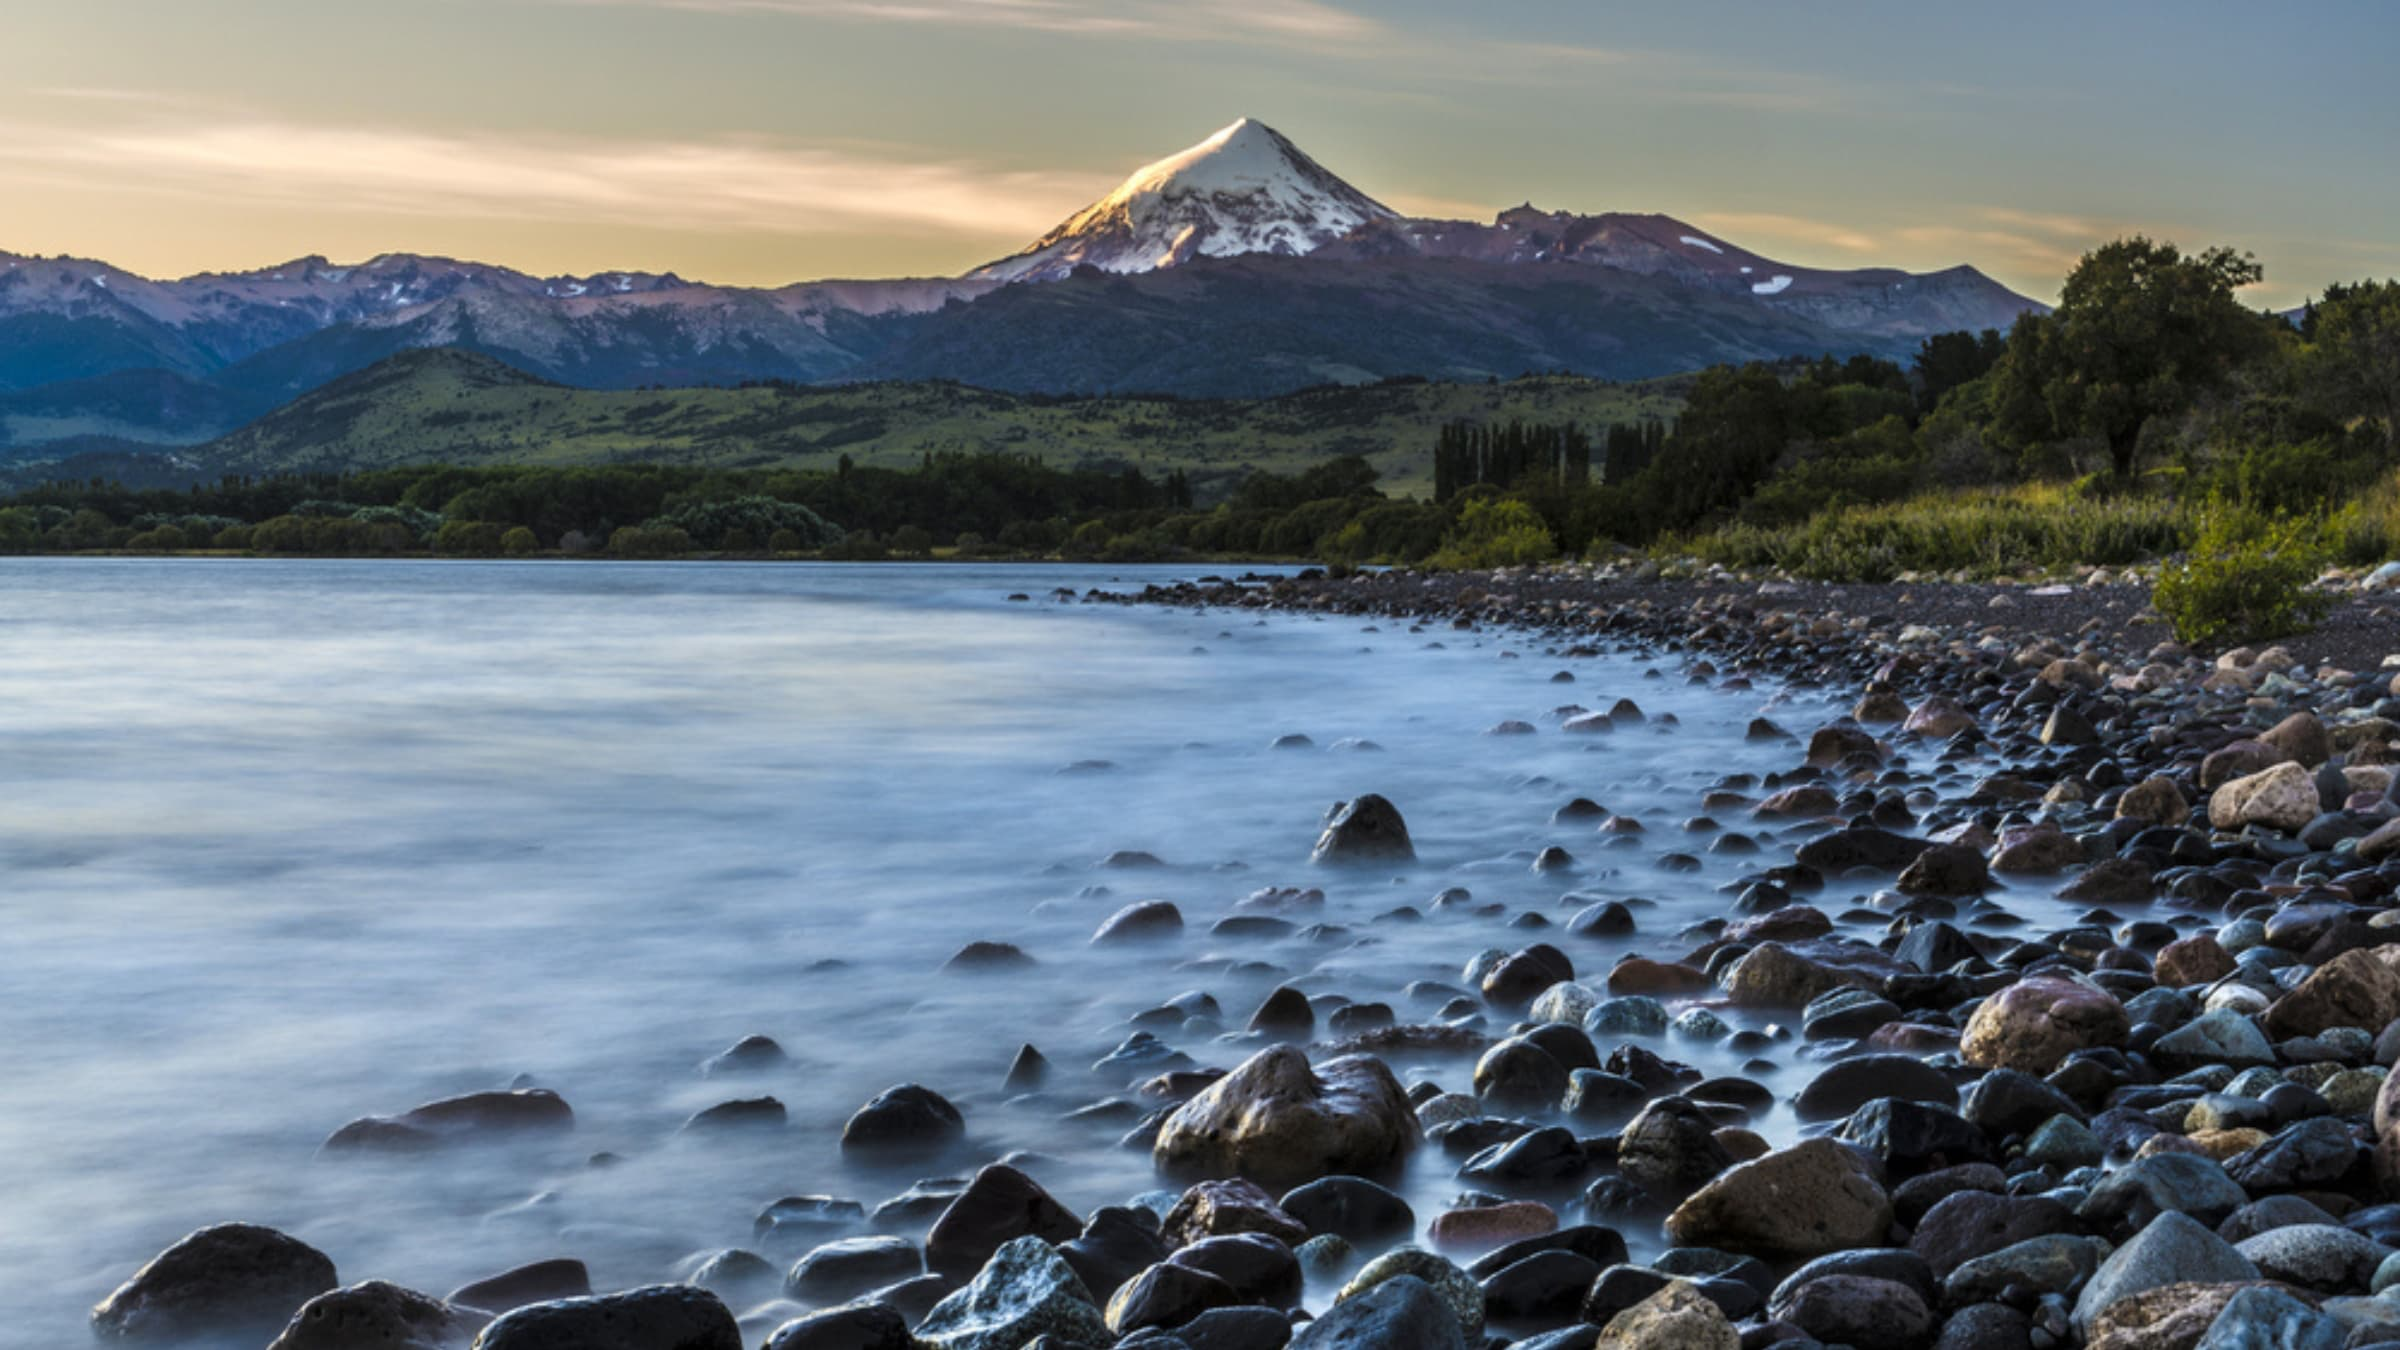
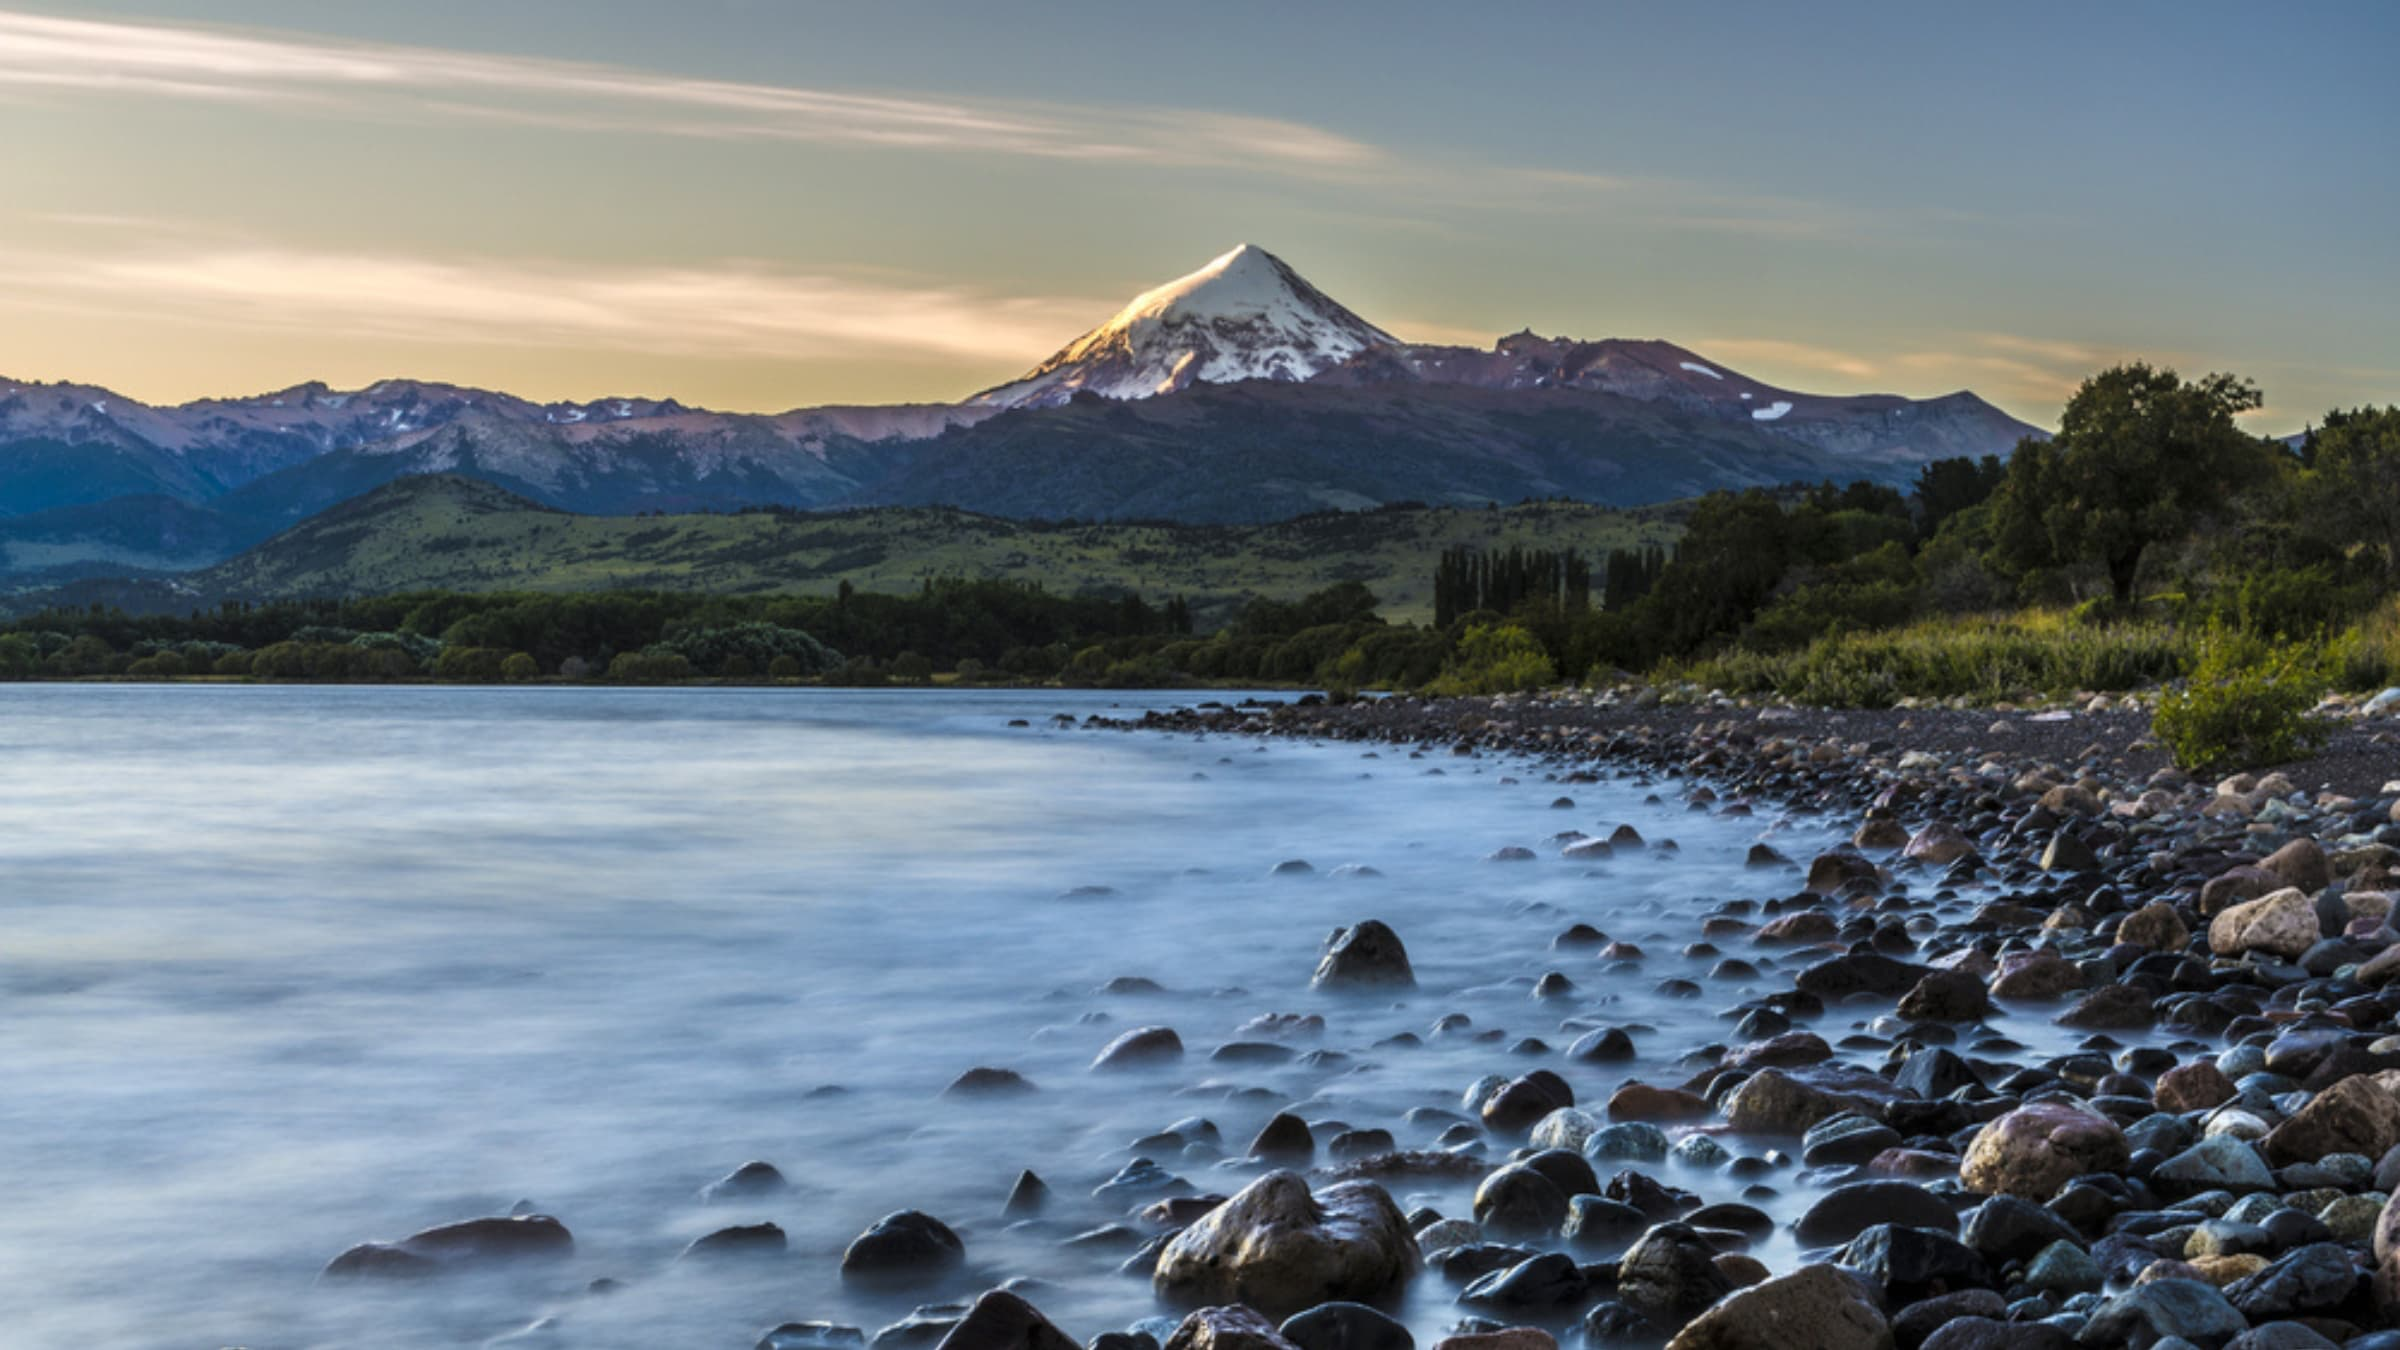
UI: fix institutional camping count to 17 on home stats

diff --git a/src/app/page.tsx b/src/app/page.tsx
@@ -48,6 +48,7 @@ export default function Home() {
           width: "100%",
           height: "420px",
           marginBottom: 48,
+          overflow: "hidden",
         }}
         className="home-hero"
       >
@@ -65,6 +66,7 @@ export default function Home() {
             priority
             style={{
               objectFit: "cover",
+              objectPosition: "center bottom",
             }}
           />
         </div>
@@ -176,8 +178,9 @@ export default function Home() {
           </Card>
           <Card>
             <div style={{ textAlign: "center" }}>
+              {/* TODO: volver a dinámico cuando estén cargados los 17 campings en Firestore */}
               <div style={{ fontSize: 32, fontWeight: 900, color: "var(--color-accent)", lineHeight: 1 }}>
-                {loading ? "..." : campings.length}
+                17
               </div>
               <div style={{ fontSize: 14, color: "var(--color-text-muted)", marginTop: 4 }}>
                 campings habilitados
